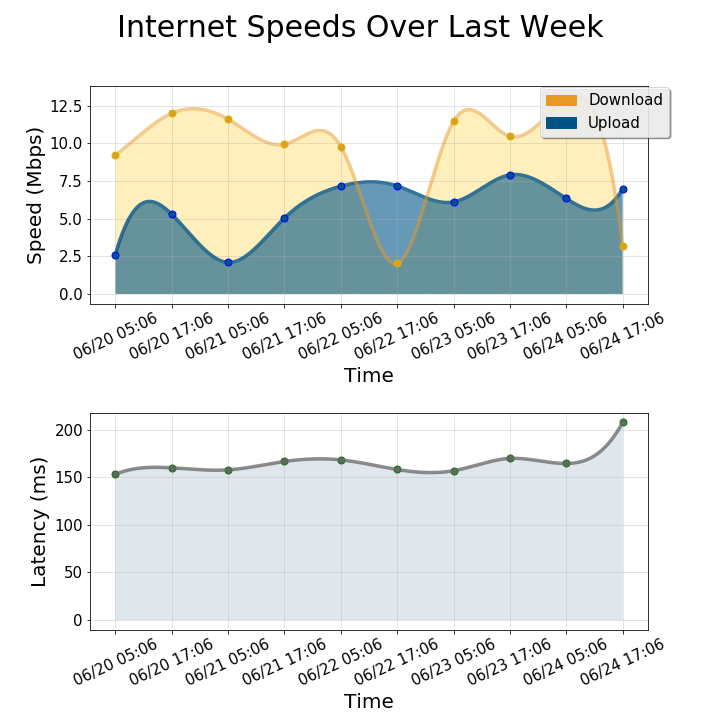
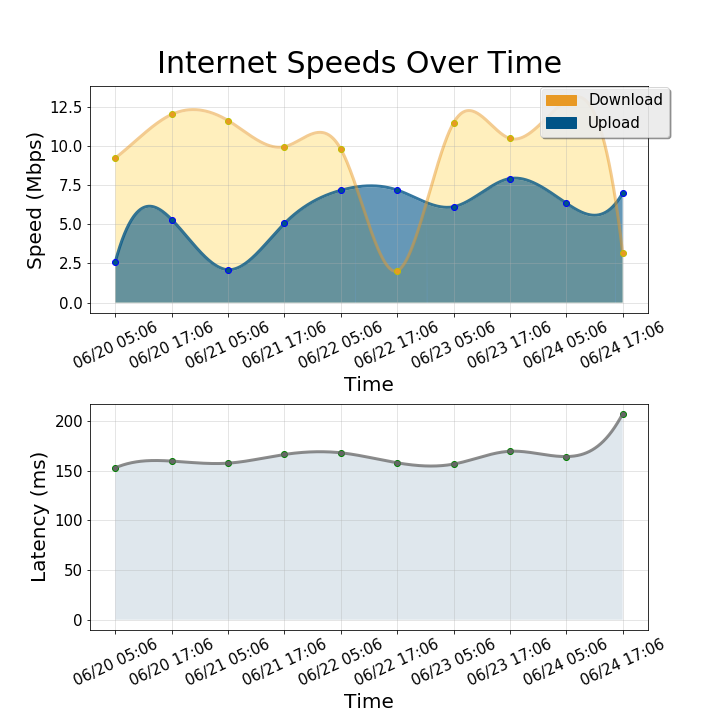
allow for adjustable number of dates

diff --git a/SpeedTestParser3.py b/SpeedTestParser3.py
@@ -2,12 +2,11 @@
 """
 Created on Thu Jun 27 09:16:26 2019
 
-@author: tajgo
 @author: cyberpizza team
 Some code for graphing and calculating statistics taken from https://pundit.pratt.duke.edu/wiki/
 Date graphing and filling taken from https://stackoverflow.com/questions/29329725/pandas-and-matplotlib-fill-between-vs-datetime64/29329823#29329823
 """
-
+# %% Import libraries
 import pandas as pd
 import numpy as np
 import matplotlib.pyplot as plt
@@ -16,15 +15,19 @@ from matplotlib.dates import DateFormatter
 from scipy.interpolate import spline
 import dateutil.parser
 
+# %% Global variables necessary for user customization
+data_to_show = 10 ####should be 14 by default once we set it up
+label_skipper = data_to_show // 7
+
 # %% Prepare data   
 # Load data from Sample_to_parse.txt
 speed_data = np.loadtxt('sample_to_parse.txt', skiprows=4, usecols=(4,5,7)) #missing date ()
 # Copy data from each column into new variables
-down_speed = speed_data[:, 0].copy()
+down_speed = speed_data[:data_to_show, 0].copy()
 down_speed = down_speed / 1000000
-up_speed = speed_data[:, 1].copy()
+up_speed = speed_data[:data_to_show, 1].copy()
 up_speed = up_speed / 1000000
-latency = speed_data[:, 2].copy()
+latency = speed_data[:data_to_show, 2].copy()
 num_points=1000
 num_points2=(int)(num_points * (down_speed.size-1)/down_speed.size)
 time_of_test=np.arange(0, (int)(down_speed.size), 1)
@@ -36,11 +39,11 @@ lines = f.readlines()
 time_data = []
 time_of_test1 = []
 time_of_test2 = []
-for x in range(4, len(lines) - 1):
+
+for x in range(4, 4+data_to_show):
     time_data.append((lines[x][100:126]))
     new_date=dateutil.parser.parse(lines[x][100:126])
     time_of_test1.append(new_date)
-    #time_of_test2.append(new_date.year * 10000000000 + new_date.month * 100000000 + new_date.day * 1000000 + new_date.hour * 10000 + new_date.minute * 100 + new_date.second)
 f.close()
 
 
@@ -87,9 +90,9 @@ for k in time_of_test1:
 fig, axs = plt.subplots(2, 1,figsize=(10, 10))
 plt.rc('xtick',labelsize=15)
 plt.rc('ytick',labelsize=15)
-fig.subplots_adjust(hspace=0.5)
+fig.subplots_adjust(hspace=0.4)
 plt.subplot(211)
-fig.suptitle("Internet Speeds Over Last Week", fontsize=30)
+fig.suptitle("Internet Speeds Over Time", fontsize=30, y=0.93)
 plt.grid(alpha=0.4)
 
 #Download and Upload Speed
@@ -127,7 +130,7 @@ plt.ylabel("Speed (Mbps)", fontsize=20)
 plt.figlegend([blue_patch, red_patch], ('Download', 'Upload'), loc=(0.75, 0.81), fancybox=True, framealpha=0.8, shadow=True, fontsize=15)
 
 plt.xticks(rotation=25, color="k")
-plt.xticks(time_of_test1, time_of_test2)
+plt.xticks(time_of_test1[::label_skipper], time_of_test2[::label_skipper])
 
 #Latency Plot
 plt.subplot(212)
@@ -140,7 +143,7 @@ plt.fill_between(d, data['Latency'], y2=0, facecolor=gray_c2, alpha=0.95, interp
 plt.xlabel("Time", fontsize=20)
 plt.grid(alpha=0.4)
 plt.xticks(rotation=25, color="k")
-plt.xticks(time_of_test1, time_of_test2)
+plt.xticks(time_of_test1[::label_skipper], time_of_test2[::label_skipper])
 plt.ylabel("Latency (ms)", fontsize=20)
 
 # %% Save and show figure
